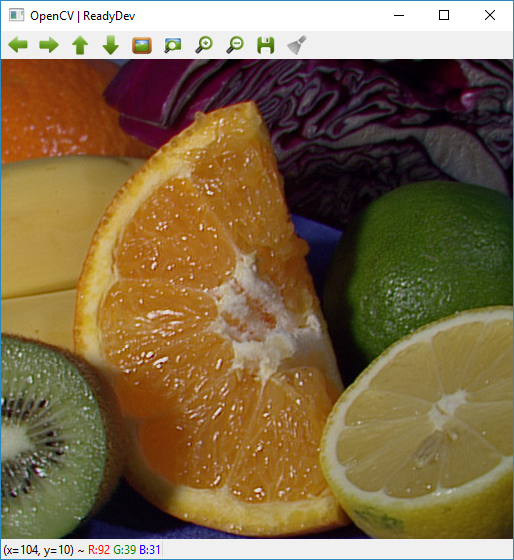
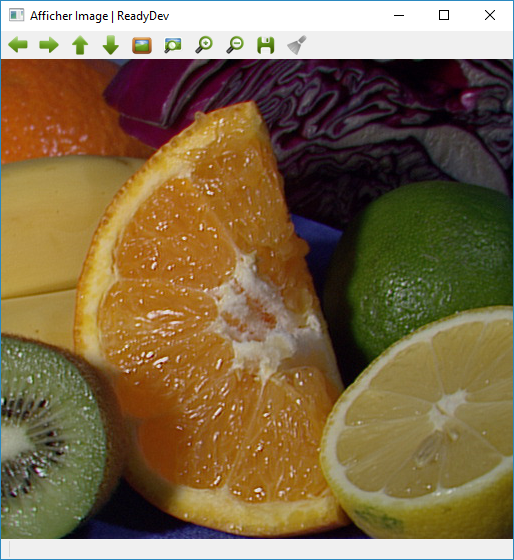
Initial Commit

Changed region(s): [[0.0623, 0.0, 0.3113, 0.0607], [0.0, 0.9714, 0.3113, 1.0]]

diff --git a/Tutoriels/Cpp/OpenCV/page/main.php b/Tutoriels/Cpp/OpenCV/page/main.php
@@ -1,6 +1,16 @@
 <div class="Parallax GParallax1"><div class="Img Binary"><div class="Caption"><a href="#"><div class="Text">Apprendre la vision par ordinateur en C++ avec OpenCV</div></a></div></div><div class="Body2 Orange"><b>OpenCV</b> est une bibliothèque pour la vision par ordinateur.<br>Le but de ce tutoriel est de vous apprendre la vision par ordinateur d'interfaces en C++ avec <b>OpenCV</b>.<br>Produit par <b>Gérard KESSE</b>.<br><br><div class="Content0 GSummary1"><div class="Body0" id="Loader_1529412976174"><div class="Row26">Summary 1</div></div><script>loadSummary1("Loader_1529412976174");</script></div></div></div><br><div class="Content2 GTitle1"><div class="MainBlock2"><div class="Content"><h1 class="Title2 Center" id="Installation sous Windows"><a class="Link3" href="#">Installation sous Windows</a></h1><div class="Body3">Le but de cette section est de vous présenter les différents outils nécessaires pour apprendre la vision par ordinateur en C++ avec OpenCV, sous Windows.<br>Produit par <b>Gérard KESSE</b>.<br><br>La&nbsp; vision par ordinateur en C++ avec OpenCV nécessite le téléchargement et l'installation de la bibliothèque OpenCV, un éditeur de texte pour l'édition de nos programmes et un compilateur pour la compilation de nos programmes.<br><br>Dans ce tutoriel, nous utiliserons, sous Windows:<br>- OpenCV, comme bibliothèque de vision par ordinateur.<br>-    MinGW, comme compilateur.<br>-    Notepad++, comme éditeur de texte.<br><br><h3 class="Title8 GTitle3">Télécharger OpenCV</h3><a class="Link7 GLink1" style="color:lime;" target="_blank" href="https://opencv.org/">https://opencv.org/</a><br><br><h3 class="Title8 GTitle3">Télécharger MinGW</h3><a class="Link7 GLink1" style="color:lime;" href="http://mingw.org/">http://mingw.org/</a><br><br><h3 class="Title8 GTitle3">Télécharger Notepad++</h3><a class="Link7 GLink1" style="color:lime;" href="https://notepad-plus-plus.org/fr/">https://notepad-plus-plus.org/fr/</a></div></div></div></div><br><div class="Content2 GTitle1"><div class="MainBlock2"><div class="Content"><h1 class="Title2 Center" id="Afficher une image"><a class="Link3" href="#">Afficher une image</a></h1><div class="Body3">Le but de cette section est de vous apprendre à <span class="GColor1" style="color:lime;">afficher une image</span> avec OpenCV.<br>Produit par <b>Gérard KESSE</b>.<br><br><h3 class="Title8 GTitle3">Afficher une image</h3><div class="GCode1"><pre class="Code2"><xmp class="AceCode" data-mode="c_cpp">cv::Mat lImg = cv::imread("res/img/fruits.jpg",-1);
 if(lImg.empty()) return;
-cv::namedWindow("OpenCV | ReadyDev", cv::WINDOW_AUTOSIZE);
-cv::imshow("OpenCV | ReadyDev", lImg);
+cv::namedWindow("Afficher Image | ReadyDev", cv::WINDOW_AUTOSIZE);
+cv::imshow("Afficher Image | ReadyDev", lImg);
 cv::waitKey(0);
-cv::destroyWindow("OpenCV | ReadyDev");</xmp></pre></div><br><h3 class="Title8 GTitle3">Résultat</h3><div class="Img3 GImage"><img src="img/Display_Picture.png" alt="img/Display_Picture.png"></div></div></div></div></div><br>
+cv::destroyWindow("Afficher Image | ReadyDev");</xmp></pre></div><br><h3 class="Title8 GTitle3">Résultat</h3><div class="Img3 GImage"><img src="img/Display_Picture.png" alt="img/Display_Picture.png"></div></div></div></div></div><br><div class="Content2 GTitle1"><div class="MainBlock2"><div class="Content"><h1 class="Title2 Center" id="Lire un fichier vidéo"><a class="Link3" href="#">Lire un fichier vidéo</a></h1><div class="Body3">Le but de cette section est de vous apprendre à <span class="GColor1" style="color:lime;">lire un fichier vidéo</span> avec OpenCV.<br>Produit par <b>Gérard KESSE</b>.<br><br><h3 class="Title8 GTitle3">Lire un fichier vidéo</h3><div class="GCode1"><pre class="Code2"><xmp class="AceCode" data-mode="c_cpp">cv::namedWindow("Lire Vidéo | ReadyDev", cv::WINDOW_AUTOSIZE);
+cv::VideoCapture lCap;
+lCap.open("res/video/tree.avi");
+cv::Mat lFrame;
+
+while(1) {
+    lCap >> lFrame;
+    if(lFrame.empty()) break;
+    cv::imshow("Lire Vidéo | ReadyDev", lFrame);
+    if(cv::waitKey(33) >= 0) break;
+}</xmp></pre></div><br><h3 class="Title8 GTitle3">Résultat</h3><div class="Img3 GImage"><img src="img/Read_Video.png" alt="img/Read_Video.png"></div></div></div></div></div><br>

diff --git a/Tutoriels/Cpp/OpenCV/z1_Learning_OpenCV_3/src/manager/GProcessReadVideo.cpp b/Tutoriels/Cpp/OpenCV/z1_Learning_OpenCV_3/src/manager/GProcessReadVideo.cpp
@@ -1,0 +1,34 @@
+//===============================================
+#include "GProcessReadVideo.h"
+//===============================================
+GProcessReadVideo* GProcessReadVideo::m_instance = 0;
+//===============================================
+GProcessReadVideo::GProcessReadVideo() {
+
+}
+//===============================================
+GProcessReadVideo::~GProcessReadVideo() {
+
+}
+//===============================================
+GProcessReadVideo* GProcessReadVideo::Instance() {
+    if(m_instance == 0) {
+        m_instance = new GProcessReadVideo;
+    }
+    return m_instance;
+}
+//===============================================
+void GProcessReadVideo::run() {
+    cv::namedWindow("Lire Vidéo | ReadyDev", cv::WINDOW_AUTOSIZE);
+    cv::VideoCapture lCap;
+    lCap.open("res/video/tree.avi");
+    cv::Mat lFrame;
+
+    while(1) {
+        lCap >> lFrame;
+        if(lFrame.empty()) break;
+        cv::imshow("Lire Vidéo | ReadyDev", lFrame);
+        if(cv::waitKey(33) >= 0) break;
+    }
+}
+//===============================================

diff --git a/Tutoriels/Cpp/OpenCV/z1_Learning_OpenCV_3/src/manager/GProcess.cpp b/Tutoriels/Cpp/OpenCV/z1_Learning_OpenCV_3/src/manager/GProcess.cpp
@@ -1,6 +1,7 @@
 //===============================================
 #include "GProcess.h"
 #include "GProcessDisplayPicture.h"
+#include "GProcessReadVideo.h"
 #include "GConfig.h"
 //===============================================
 GProcess* GProcess::m_instance = 0;
@@ -16,6 +17,7 @@ GProcess::~GProcess() {
 GProcess* GProcess::Instance() {
     QString lType = GConfig::Instance()->getData("APP_NAME");
     if(lType == "DISPLAY_PICTURE") return GProcessDisplayPicture::Instance();
+    if(lType == "READ_VIDEO") return GProcessReadVideo::Instance();
     return GProcessDisplayPicture::Instance();
 }
 //===============================================

diff --git a/Tutoriels/Cpp/OpenCV/z1_Learning_OpenCV_3/src/manager/GProcessDisplayPicture.cpp b/Tutoriels/Cpp/OpenCV/z1_Learning_OpenCV_3/src/manager/GProcessDisplayPicture.cpp
@@ -21,9 +21,9 @@ GProcessDisplayPicture* GProcessDisplayPicture::Instance() {
 void GProcessDisplayPicture::run() {
     cv::Mat lImg = cv::imread("res/img/fruits.jpg",-1);
     if(lImg.empty()) return;
-    cv::namedWindow("OpenCV | ReadyDev", cv::WINDOW_AUTOSIZE);
-    cv::imshow("OpenCV | ReadyDev", lImg);
+    cv::namedWindow("Afficher Image | ReadyDev", cv::WINDOW_AUTOSIZE);
+    cv::imshow("Afficher Image | ReadyDev", lImg);
     cv::waitKey(0);
-    cv::destroyWindow("OpenCV | ReadyDev");
+    cv::destroyWindow("Afficher Image | ReadyDev");
 }
 //===============================================

diff --git a/Tutoriels/Cpp/OpenCV/z1_Learning_OpenCV_3/src/manager/GProcessReadVideo.h b/Tutoriels/Cpp/OpenCV/z1_Learning_OpenCV_3/src/manager/GProcessReadVideo.h
@@ -1,0 +1,21 @@
+//===============================================
+#ifndef _GProcessReadVideo_
+#define _GProcessReadVideo_
+//===============================================
+#include "GProcess.h"
+//===============================================
+class GProcessReadVideo : public GProcess {
+public:
+    GProcessReadVideo();
+    ~GProcessReadVideo();
+
+public:
+    static GProcessReadVideo* Instance();
+    void run();
+
+private:
+    static GProcessReadVideo* m_instance;
+};
+//===============================================
+#endif
+//===============================================
